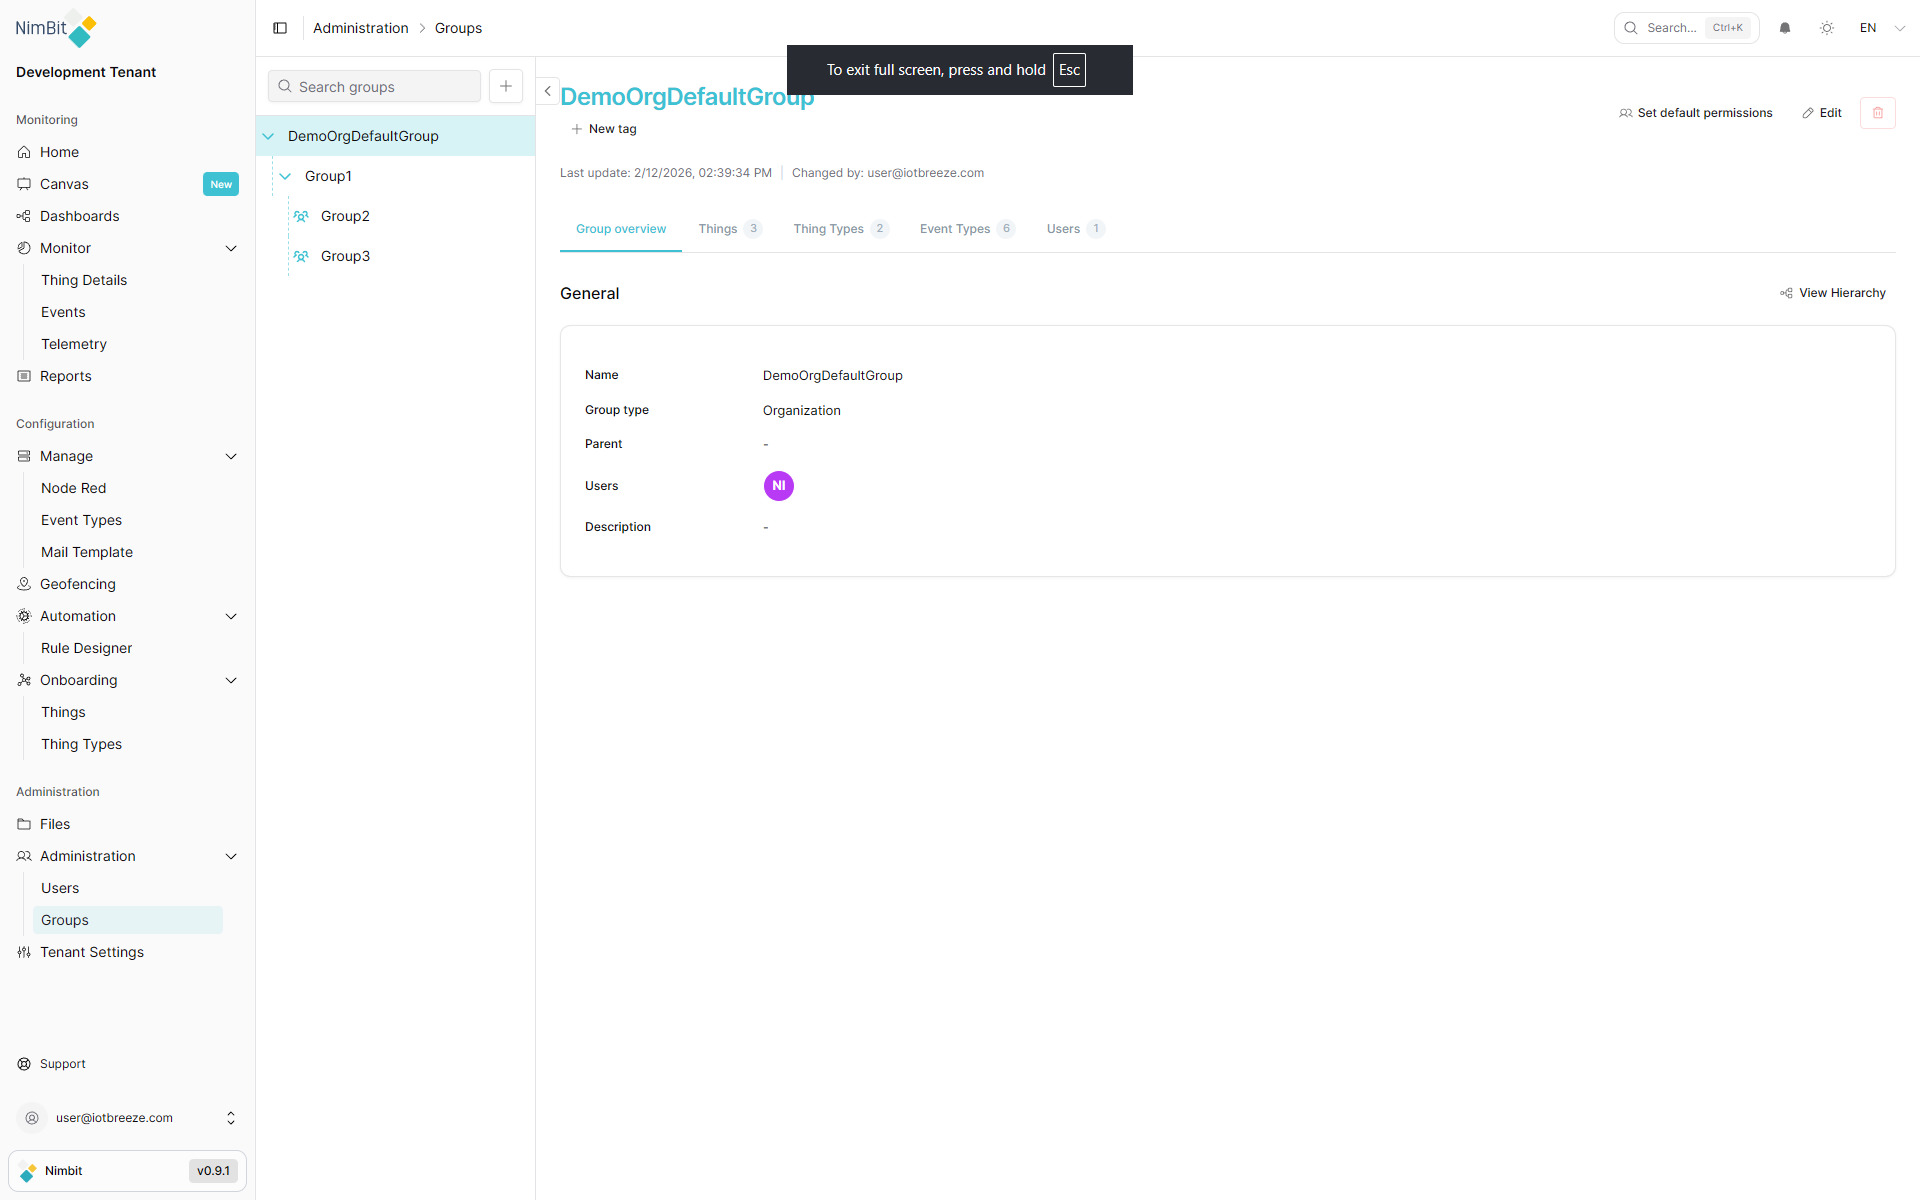
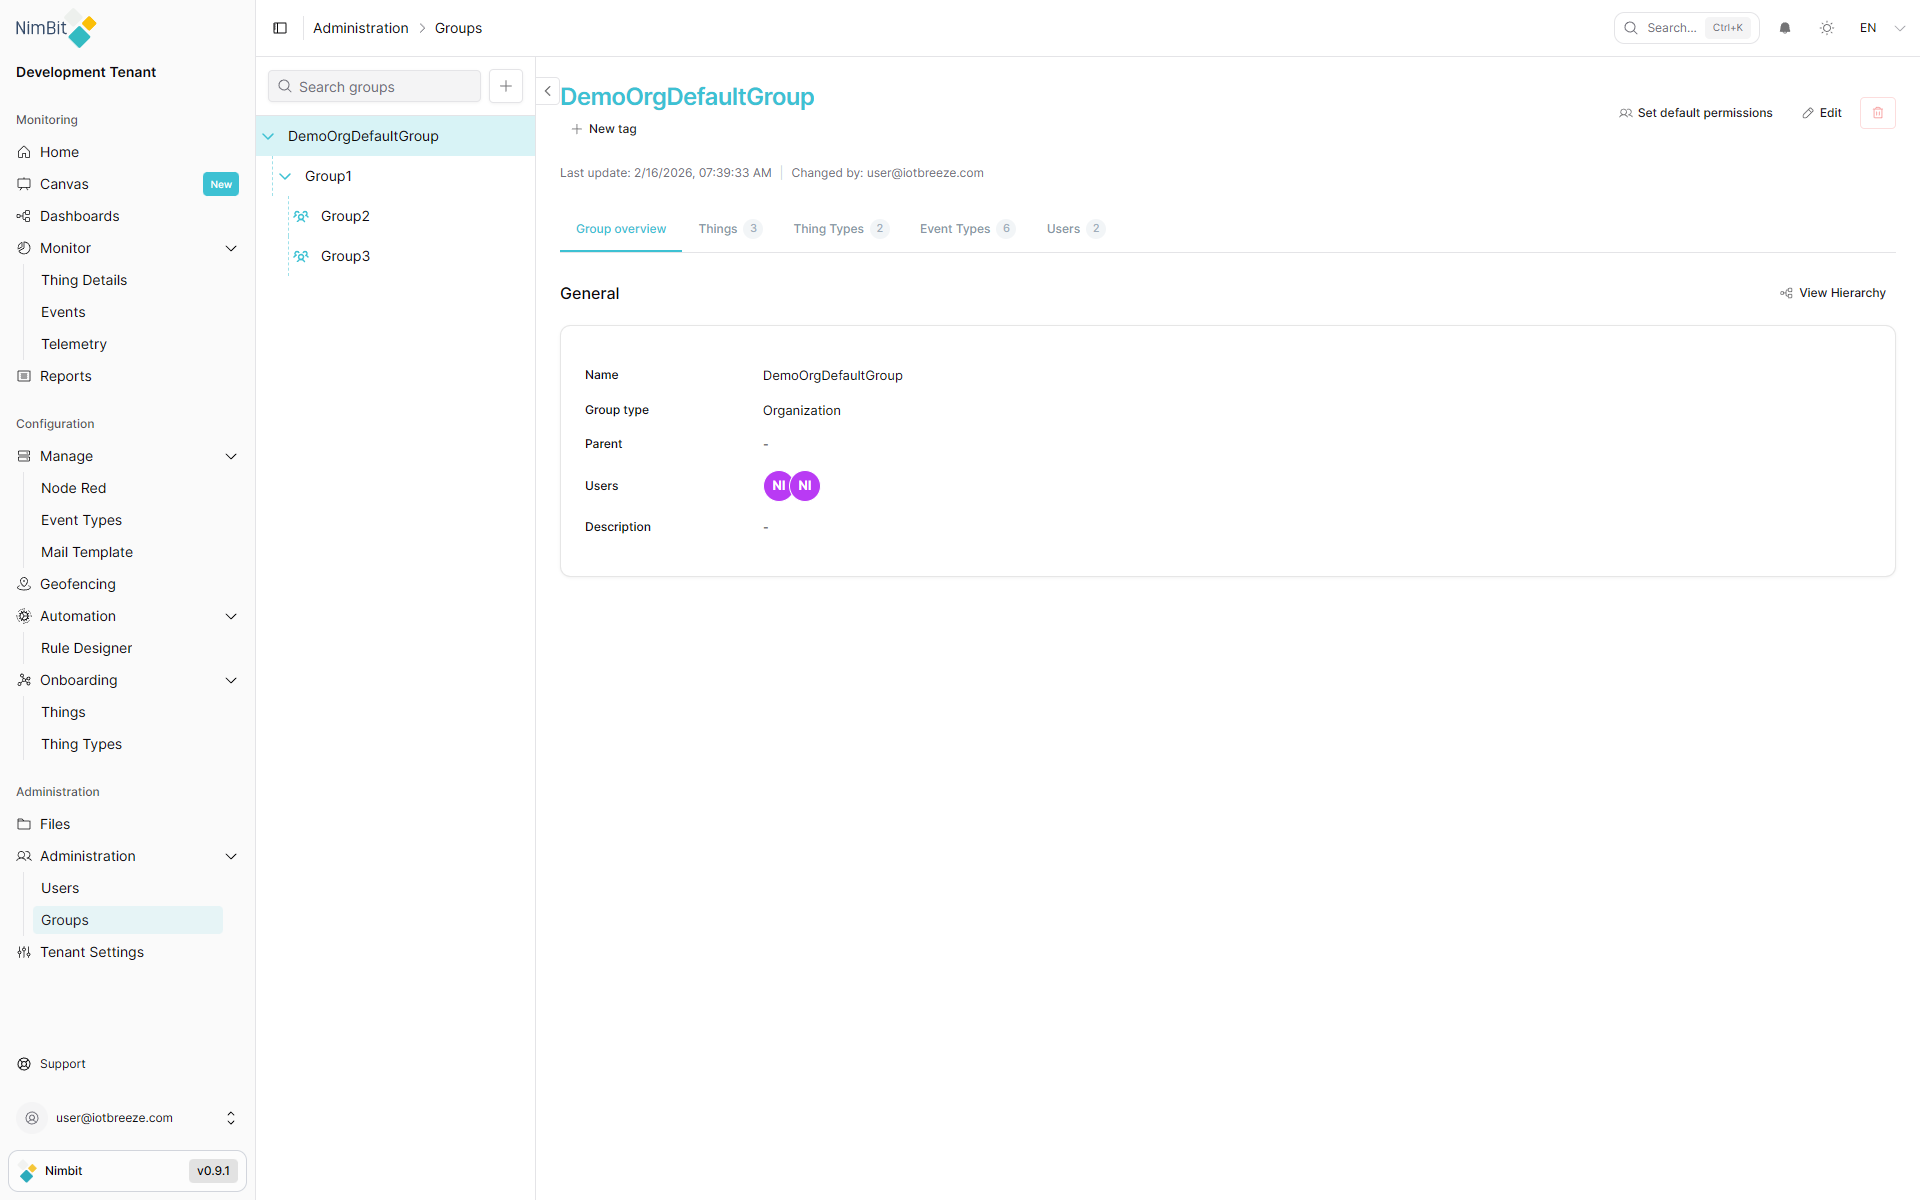
new groups imahge for overview

Changed region(s): [[0.4062, 0.0308, 0.5938, 0.0925], [0.375, 0.1233, 0.5, 0.1542], [0.4062, 0.4008, 0.4375, 0.4317]]

diff --git a/docs/user/tenant-configuration/email.md b/docs/user/tenant-configuration/email.md
@@ -16,13 +16,13 @@ Once enabled, enter the SMTP configuration details:
 
 ## Configuration Fields
 
-| Field         | Required | Description                                                                                                                                       |
-| ------------- | -------- | ------------------------------------------------------------------------------------------------------------------------------------------------- |
-| **SMTP Host** | ✅ Yes   | The mail server hostname (e.g., `smtp.example.com`).                                                                                              |
-| **Port**      | ✅ Yes   | Port for communication (`25`, `465`, or `587`).                                                                                                   |
-| **From**      | ✅ Yes   | Default sender address used in all emails.                                                                                                        |
-| **Username**  | ✅ Yes   | SMTP username.                                                                                                                                    |
-| **Password**  | ✅ Yes   | SMTP password.                                                                                                                                    |
+| Field         | Required | Description                                                                                                                           |
+| ------------- | -------- | ------------------------------------------------------------------------------------------------------------------------------------- |
+| **SMTP Host** | ✅ Yes   | The mail server hostname (e.g., `smtp.example.com`).                                                                                  |
+| **Port**      | ✅ Yes   | Port for communication (`25`, `465`, or `587`).                                                                                       |
+| **From**      | ✅ Yes   | Default sender address used in all emails.                                                                                            |
+| **Username**  | ✅ Yes   | SMTP username.                                                                                                                        |
+| **Password**  | ✅ Yes   | SMTP password.                                                                                                                        |
 | **Secure**    | ✅ Yes   | Choose between `Yes` or `No`. Affects TLS usage. Note: "Secure" refers to protocol encryption, not whether data is protected overall. |
 
 After saving your configuration, use the **Test Email** function to validate the connection and credentials.
